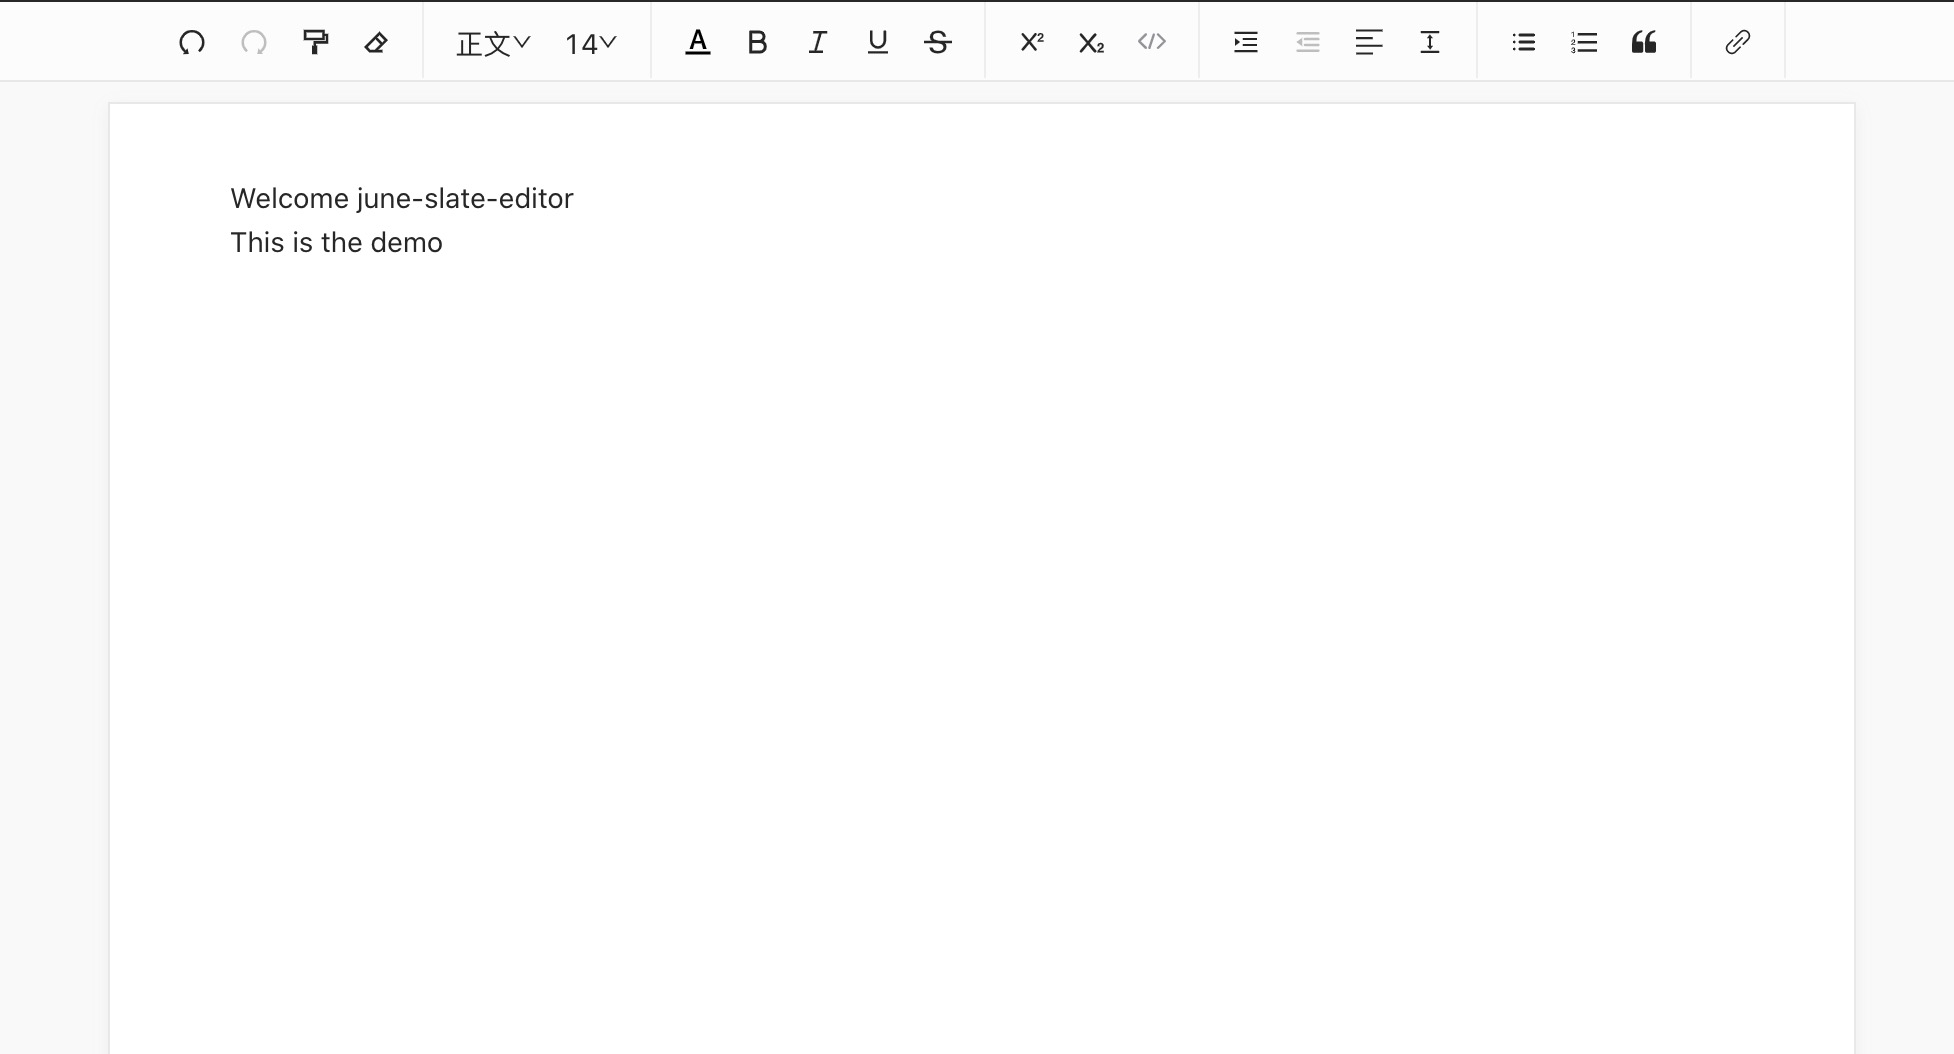
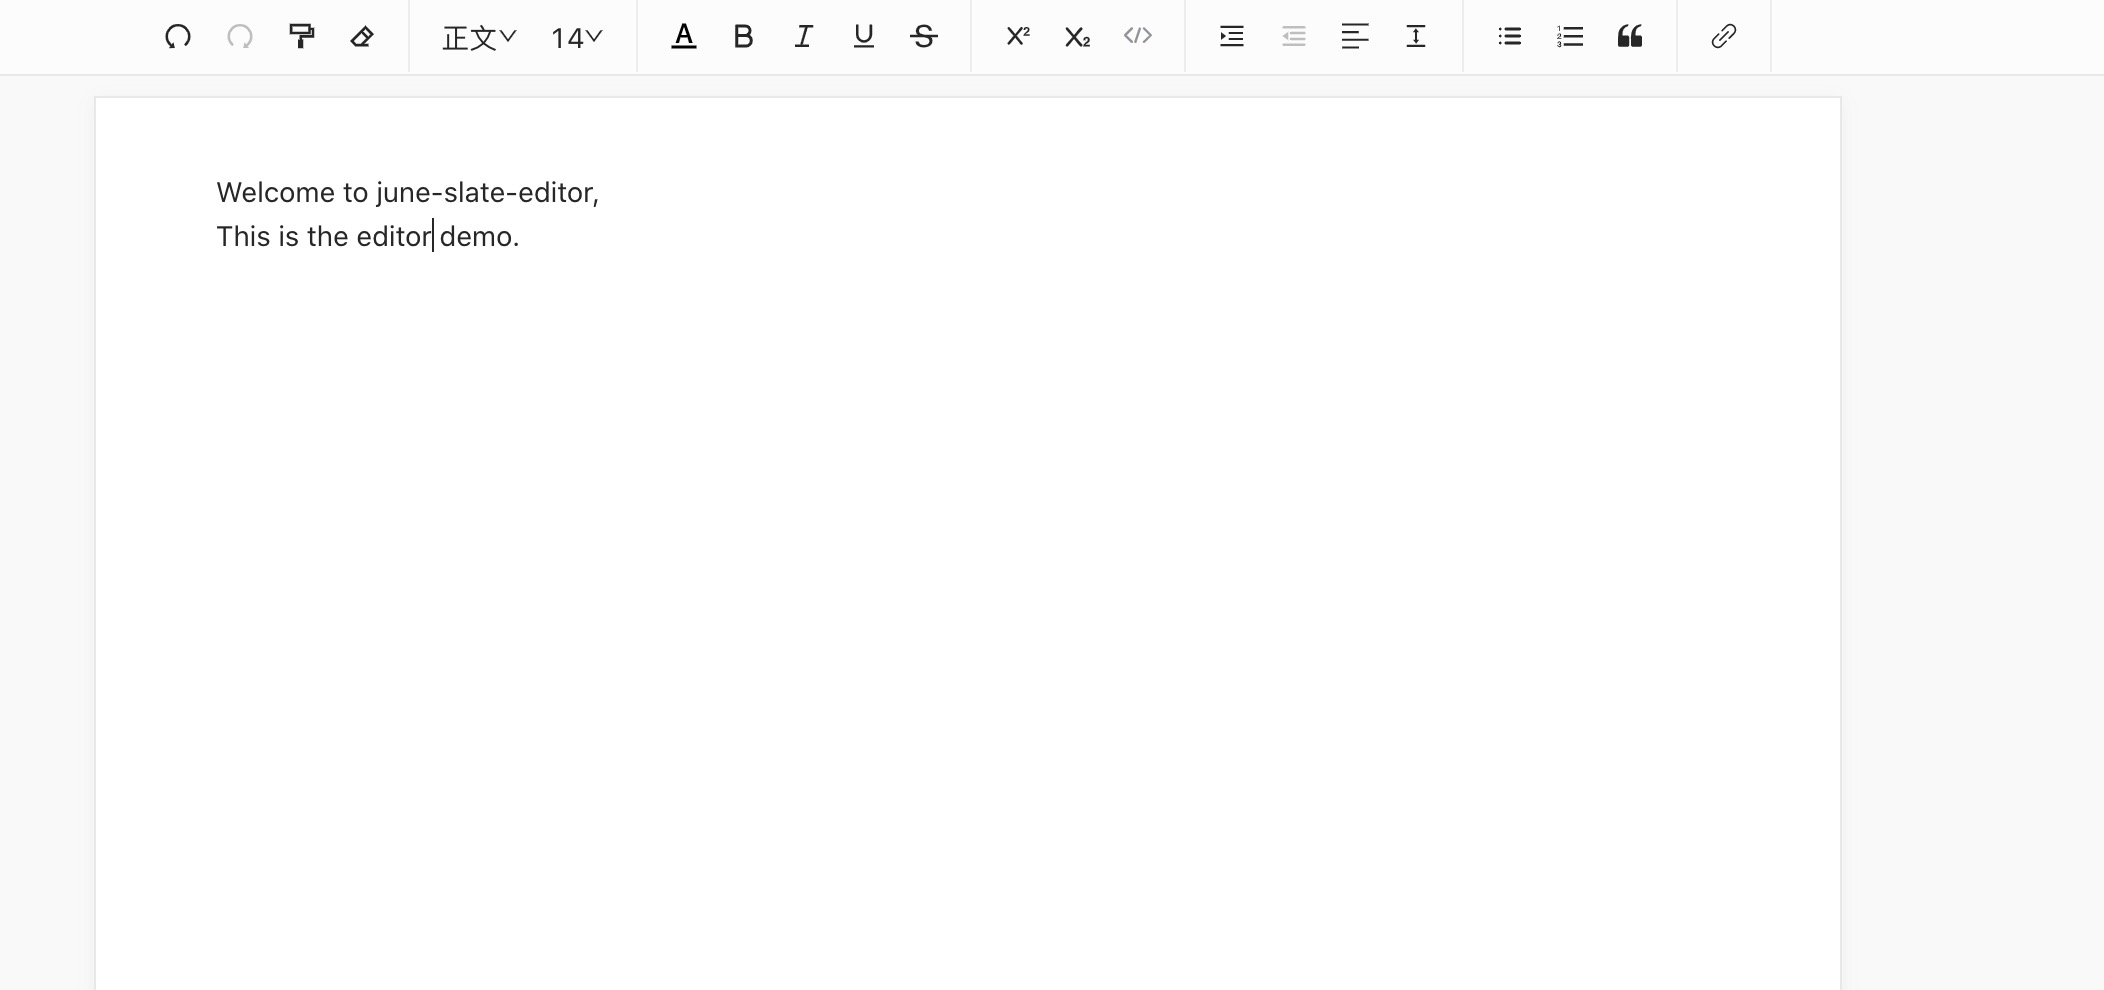
modify README.md

Changed region(s): [[0.0624, 0.0, 0.8429, 0.0606], [0.0937, 0.1818, 0.3122, 0.2424]]

diff --git a/src/stories/App.stories.js b/src/stories/App.stories.js
@@ -3,14 +3,14 @@ import React from 'react';
 import App from '../App';
 
 export default {
-  title: 'Example/App',
+  title: 'Example/Editor',
   component: App,
 };
 
 const Template = (args) => <App {...args} />;
 
-export const DefaultApp = Template.bind({});
-DefaultApp.args = {
+export const EditorApp = Template.bind({});
+EditorApp.args = {
   primary: true,
-  label: 'DefaultApp',
+  label: 'EditorApp',
 };

diff --git a/src/App.js b/src/App.js
@@ -6,11 +6,11 @@ function App() {
   const [value, setValue] = useState([
     {
       type: 'paragraph',
-      children: [{ text: 'welcome june-slate-editor' }]
+      children: [{ text: 'Welcome to june-slate-editor' }]
     },
     {
       type: 'paragraph',
-      children: [{ text: 'this is demo' }]
+      children: [{ text: 'This is demo' }]
     }
   ]);
   const onChange = useCallback(function (val) {
